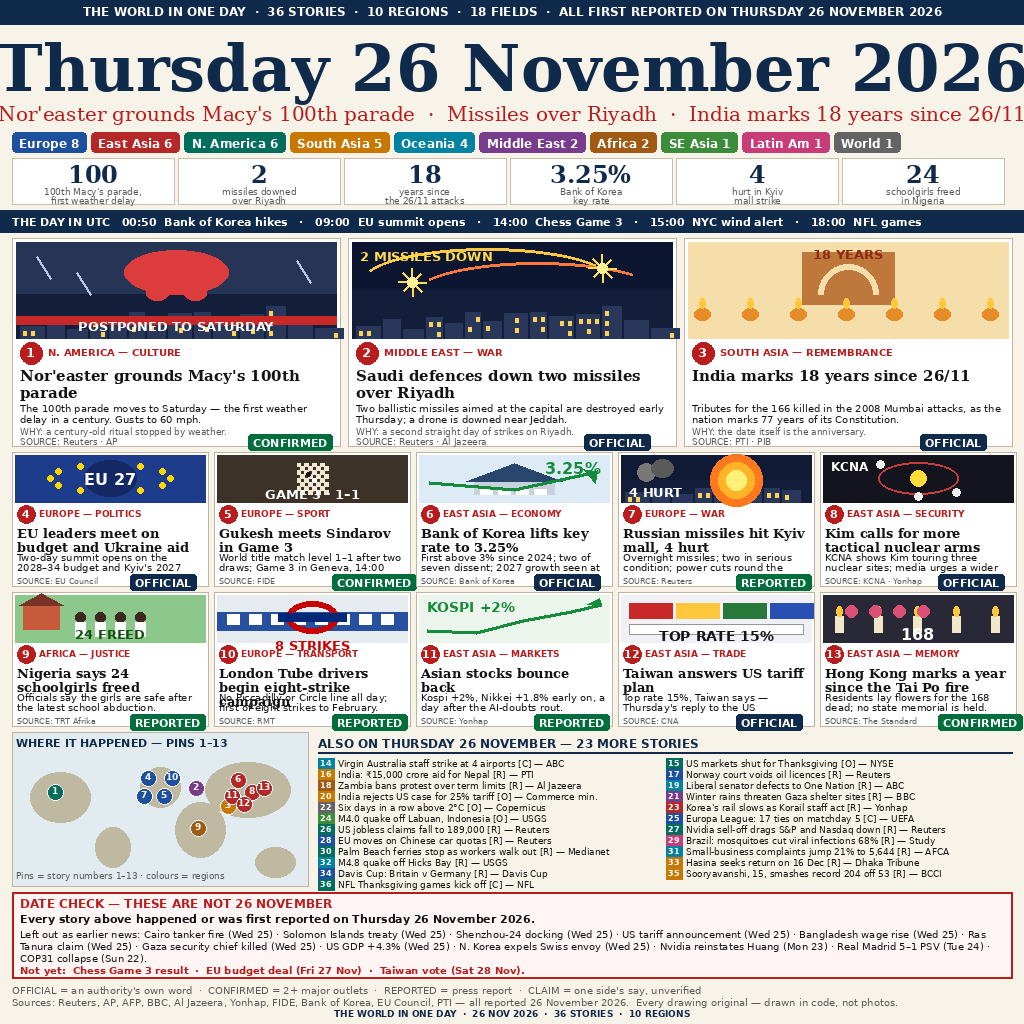
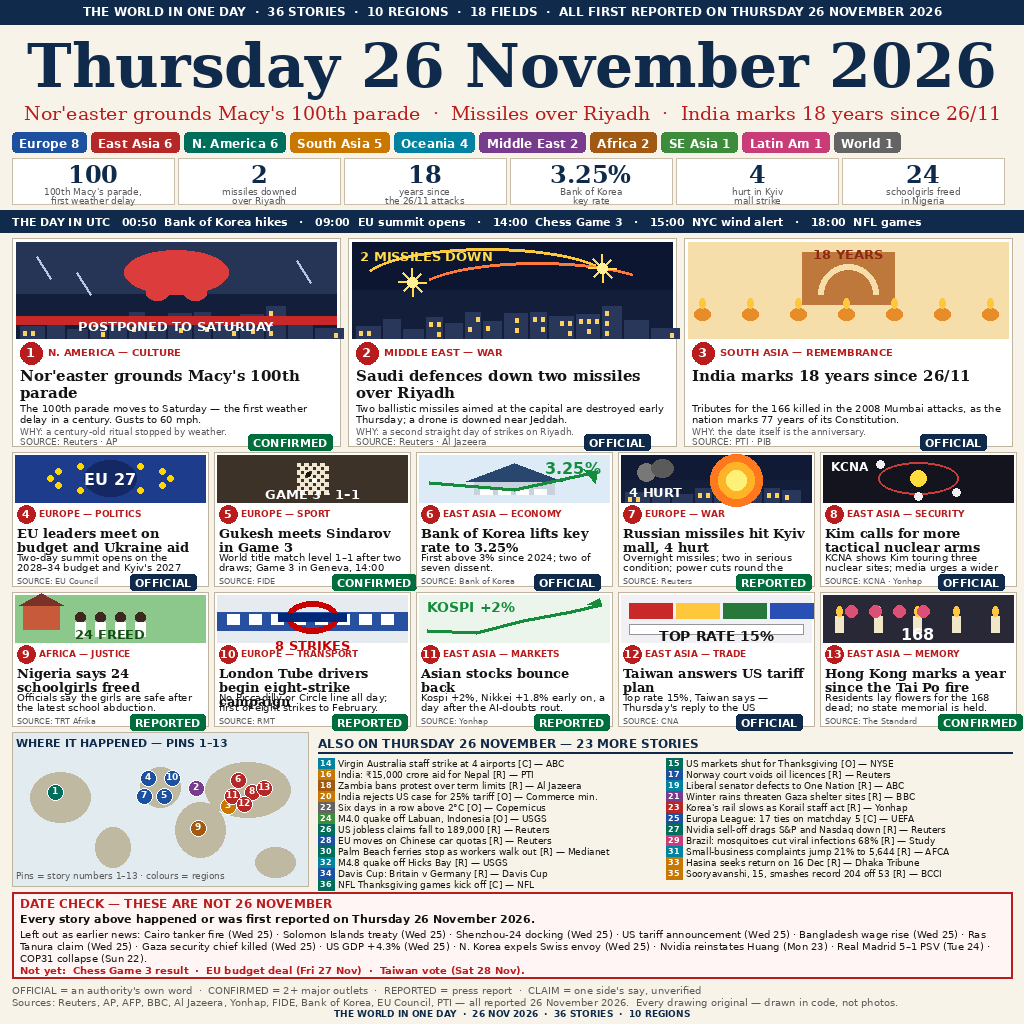
Fix masthead/lede overflow: auto-fit masthead (64->60pt, <=980px) and lede (20->19pt, <=1000px); shorten Bank of Korea body to 2 lines

Changed region(s): [[0.0, 0.0312, 1.0, 0.125]]

diff --git a/render.py b/render.py
@@ -182,9 +182,16 @@ def scene(dr, kind, x0, y0, x1, y1):
 d.rectangle([0, 0, W, 24], fill=NAVY)
 txt(512, 4, "THE WORLD IN ONE DAY  ·  36 STORIES  ·  10 REGIONS  ·  18 FIELDS  ·  ALL FIRST REPORTED ON THURSDAY 26 NOVEMBER 2026",
     SANS_B(12), (255, 255, 255), "ma")
-txt(512, 30, "Thursday 26 November 2026", SERIF_B(64), NAVY, "ma")
-txt(512, 102, "Nor'easter grounds Macy's 100th parade  ·  Missiles over Riyadh  ·  India marks 18 years since 26/11",
-    SERIF(20), RED, "ma")
+masthead = "Thursday 26 November 2026"
+mh_size = 64
+while mh_size > 30 and d.textlength(masthead, font=SERIF_B(mh_size)) > 980:
+    mh_size -= 1
+txt(512, 30, masthead, SERIF_B(mh_size), NAVY, "ma")
+lede = "Nor'easter grounds Macy's 100th parade  ·  Missiles over Riyadh  ·  India marks 18 years since 26/11"
+lede_size = 20
+while lede_size > 12 and d.textlength(lede, font=SERIF(lede_size)) > 1000:
+    lede_size -= 1
+txt(512, 102, lede, SERIF(lede_size), RED, "ma")
 # region strip
 regs = [("Europe", 8), ("East Asia", 6), ("N. America", 6), ("South Asia", 5), ("Oceania", 4),
         ("Middle East", 2), ("Africa", 2), ("SE Asia", 1), ("Latin Am", 1), ("World", 1)]
@@ -248,7 +255,7 @@ MIDS = [
     dict(n=5, kind="chess", region="Europe", field="SPORT", head="Gukesh meets Sindarov in Game 3",
          body="World title match level 1–1 after two draws; Game 3 in Geneva, 14:00 UTC.", src="FIDE", badge="CONFIRMED"),
     dict(n=6, kind="bok", region="East Asia", field="ECONOMY", head="Bank of Korea lifts key rate to 3.25%",
-         body="First above 3% since 2024; two of seven dissent; 2027 growth seen at 4.1%.", src="Bank of Korea", badge="OFFICIAL"),
+         body="First above 3% since 2024; two of seven dissent.", src="Bank of Korea", badge="OFFICIAL"),
     dict(n=7, kind="kyiv", region="Europe", field="WAR", head="Russian missiles hit Kyiv mall, 4 hurt",
          body="Overnight missiles; two in serious condition; power cuts round the clock.", src="Reuters", badge="REPORTED"),
     dict(n=8, kind="kim", region="East Asia", field="SECURITY", head="Kim calls for more tactical nuclear arms",
